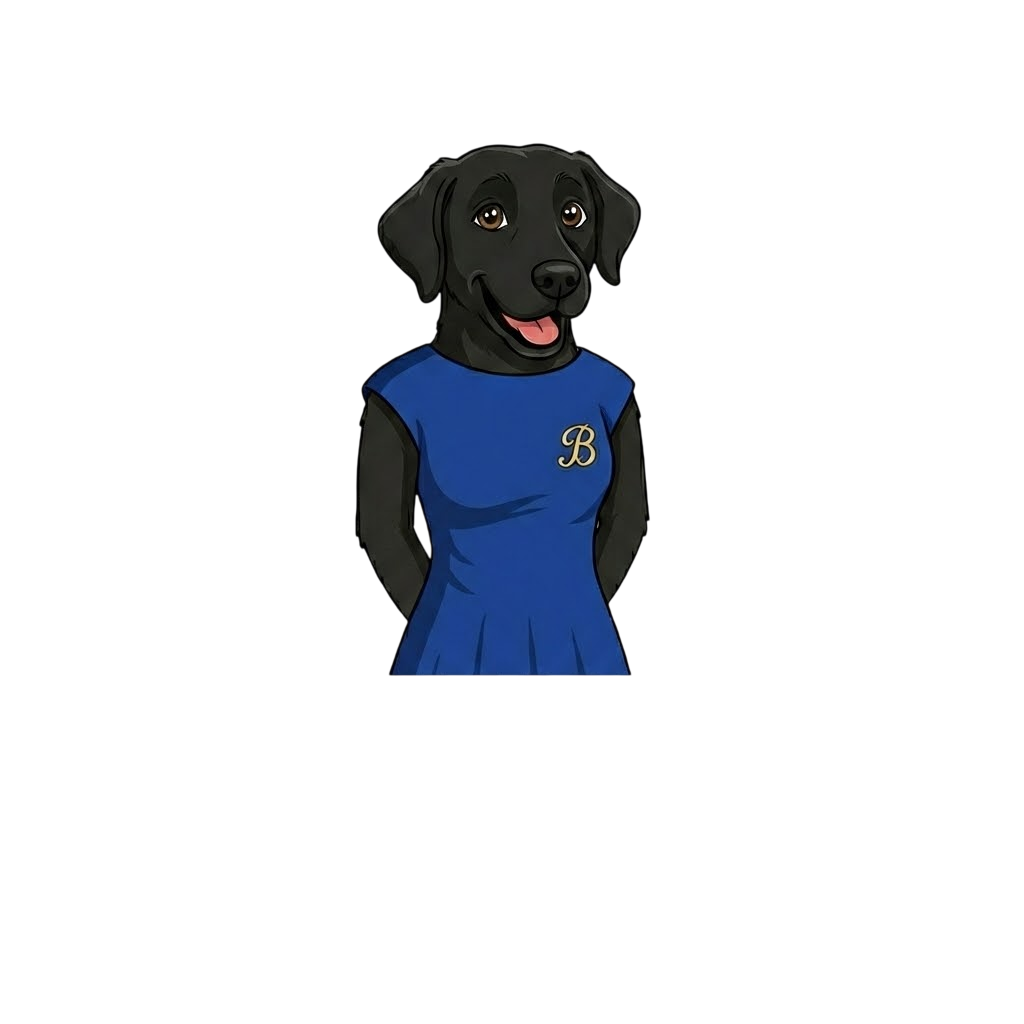
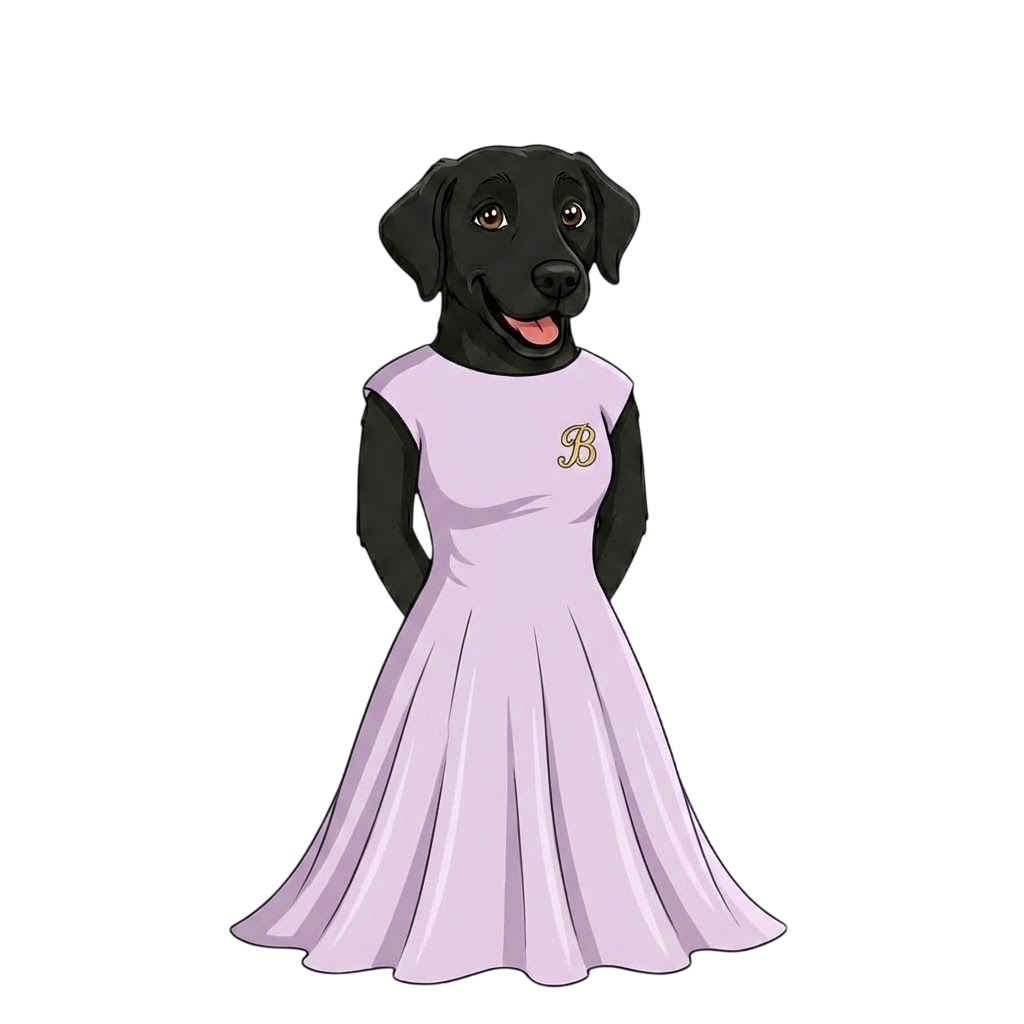
se acualizan las iamgenes  y se mejora el reproductor de musica

Changed region(s): [[0.2188, 0.2812, 0.7812, 0.9688], [0.5625, 0.25, 0.5938, 0.2812]]

diff --git a/astro-wedding/src/styles/global.css b/astro-wedding/src/styles/global.css
@@ -410,48 +410,7 @@ strong {
   transition-delay: 0.9s;
 }
 
-/* ===== MUSIC BUTTON ===== */
-.music-button {
-  position: fixed;
-  top: calc(var(--nav-height) + 15px);
-  right: 2rem;
-  width: 55px;
-  height: 55px;
-  border-radius: 50%;
-  background: var(--color-white);
-  border: 2px solid var(--color-primary);
-  color: var(--color-primary);
-  cursor: pointer;
-  display: flex;
-  align-items: center;
-  justify-content: center;
-  transition: all 0.4s cubic-bezier(0.4, 0, 0.2, 1);
-  box-shadow: 0 4px 20px rgba(143, 169, 188, 0.2);
-  z-index: 999;
-}
-
-.music-button:hover {
-  background: var(--color-primary);
-  color: var(--color-white);
-  transform: scale(1.1) rotate(5deg);
-  box-shadow: 0 6px 30px rgba(143, 169, 188, 0.4);
-}
-
-.music-button.playing {
-  background: var(--color-primary);
-  color: var(--color-white);
-  animation: pulse 2s ease-in-out infinite;
-}
-
-.music-icon {
-  width: 24px;
-  height: 24px;
-  transition: transform 0.3s ease;
-}
-
-.music-button:hover .music-icon {
-  transform: scale(1.1);
-}
+/* Music Button styles moved to component */
 
 /* ===== HERO SECTION ===== */
 .hero {
